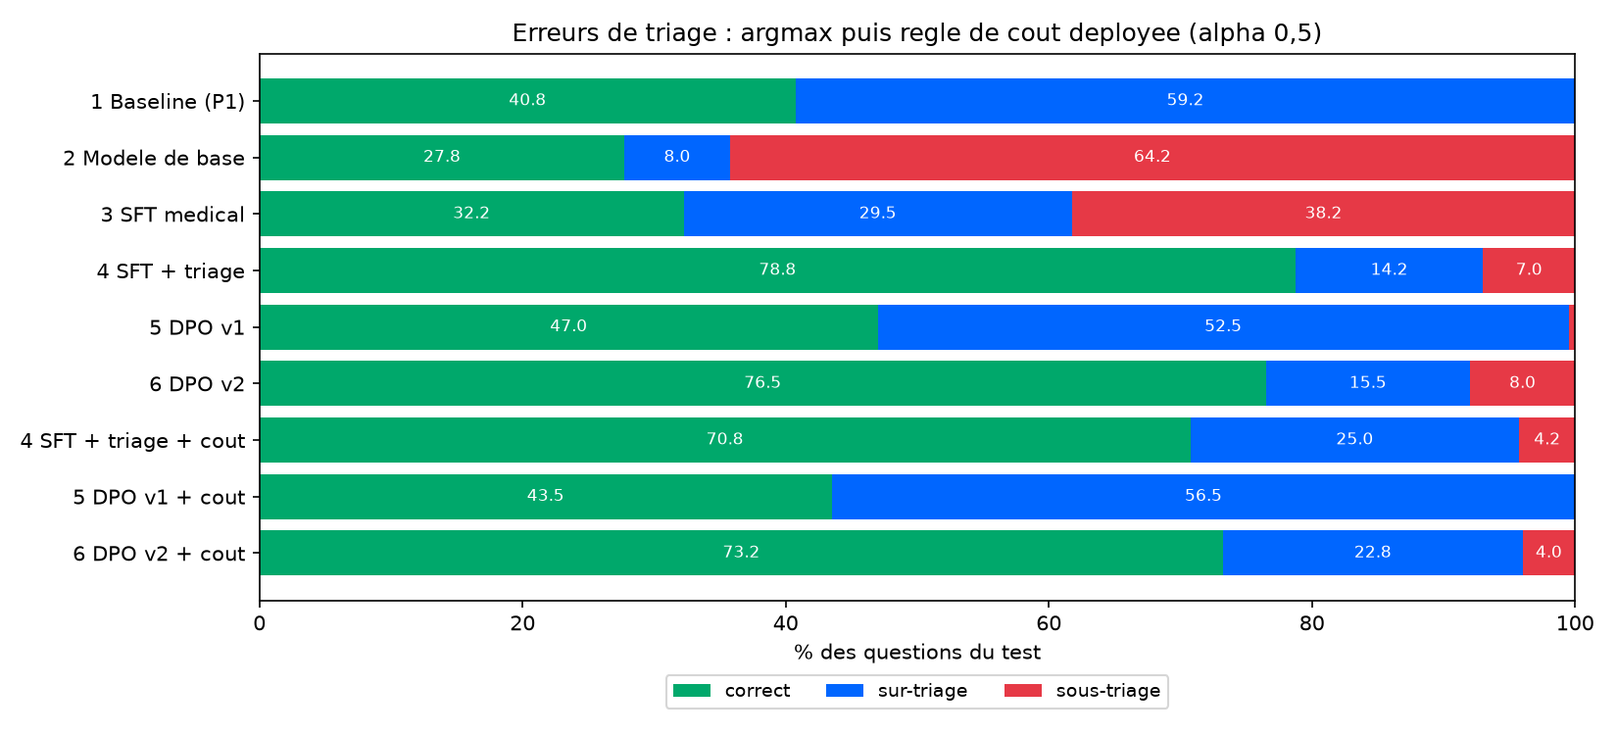
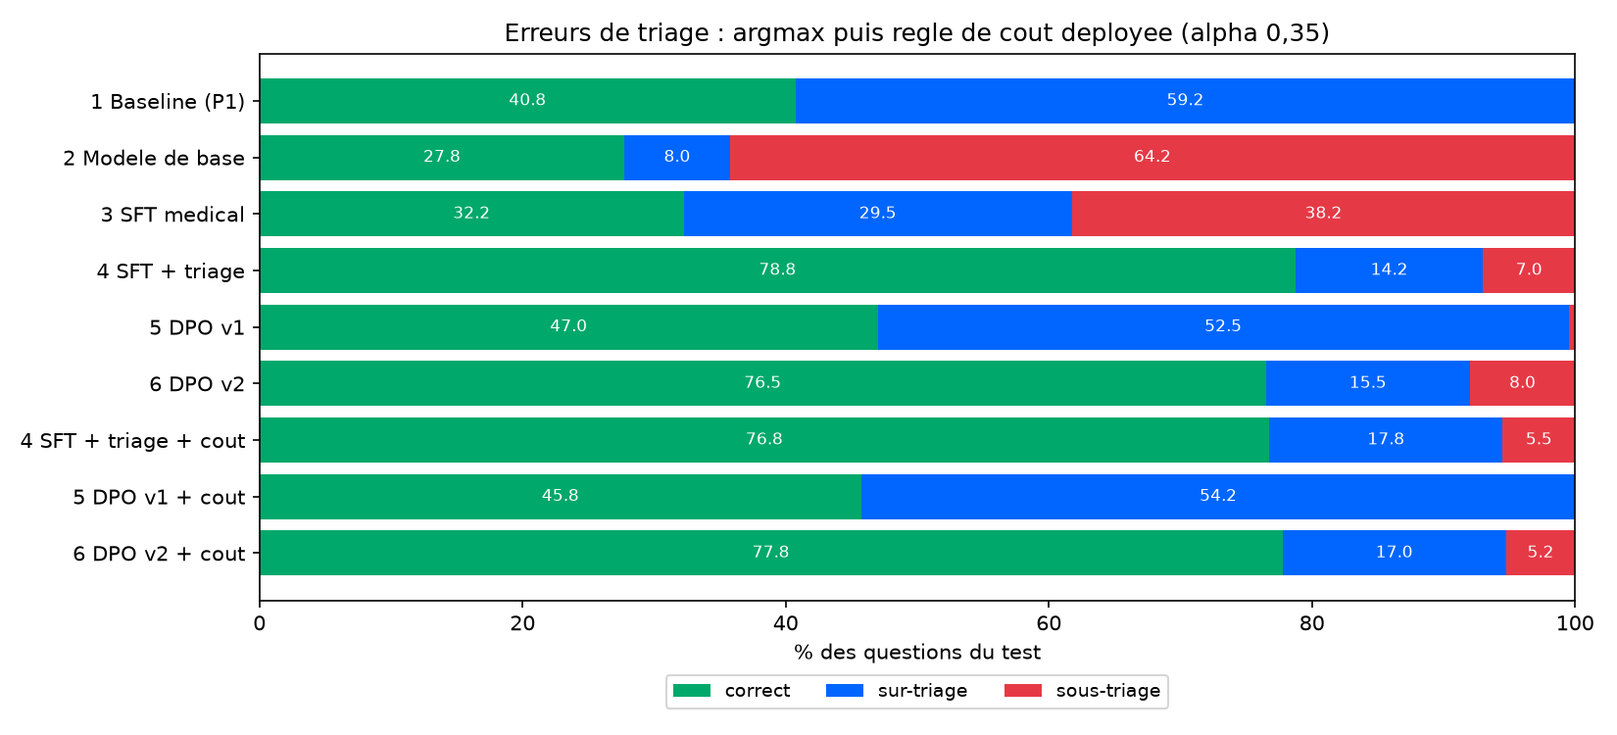
Regle de cout : alpha 0,35 pour un sur-triage autour de 17 %
Balayage fin d'alpha, alpha lu dans decision_rule.json pour les tableaux et graphiques,
sections 3.1 (choix d'alpha) et 3.2 (relecture des cas incertains) dans resultats_sft_dpo.md.

diff --git a/src/triage/evaluation/compare_models.py b/src/triage/evaluation/compare_models.py
@@ -29,6 +29,9 @@ from triage.utils.markdown import markdown_table
 
 FIGURES_DIR = OUTPUTS_DIR / "figures"
 N_BOOTSTRAP = 2000
+# alpha deploye (decision_rule.json), affiche a la francaise dans les titres : 0.35 -> "0,35".
+DEPLOYED_ALPHA = load_decision_rule()["alpha"]
+ALPHA_LABEL = f"{DEPLOYED_ALPHA:g}".replace(".", ",")
 NAMES = {
     "1_baseline_naive": "1 Baseline (P1)",
     "2_modele_base": "2 Modele de base",
@@ -162,7 +165,7 @@ def fig_errors(results: dict, cost: dict) -> None:
     ax.invert_yaxis()
     ax.set_xlim(0, 100)
     ax.set_xlabel("% des questions du test")
-    ax.set_title("Erreurs de triage : argmax puis regle de cout deployee (alpha 0,5)")
+    ax.set_title(f"Erreurs de triage : argmax puis regle de cout deployee (alpha {ALPHA_LABEL})")
     ax.legend(loc="upper center", bbox_to_anchor=(0.5, -0.12), ncol=3, fontsize=9)
     save(fig, "02_sous_sur_triage.png")
 
@@ -214,13 +217,15 @@ def fig_cost_tradeoff() -> pd.DataFrame:
                 color=COLORS[experiment],
                 label=NAMES[experiment],
             )
-            # Seul le point deploye est annote, decale par modele pour rester lisible.
+            # Seul le point deploye est entoure et annote, texte decale par modele pour rester lisible.
+            deployed = (sweep.loc[DEPLOYED_ALPHA, "sur_triage"] * 100, sweep.loc[DEPLOYED_ALPHA, "sous_triage"] * 100)
+            ax.scatter(*deployed, s=160, facecolors="none", edgecolors=COLORS[experiment], linewidths=2, zorder=4)
             ax.annotate(
-                "alpha 0,5",
-                (sweep.loc[0.5, "sur_triage"] * 100, sweep.loc[0.5, "sous_triage"] * 100),
+                f"alpha {ALPHA_LABEL}",
+                deployed,
                 fontsize=8,
                 color=COLORS[experiment],
-                xytext=(6, 8) if experiment == "4_sft_medical_triage" else (-50, -14),
+                xytext=(8, 8) if experiment == "4_sft_medical_triage" else (8, -16),
                 textcoords="offset points",
             )
             argmax = cost_sensitive.metrics(y, scores.idxmax(axis=1))
@@ -236,7 +241,7 @@ def fig_cost_tradeoff() -> pd.DataFrame:
             ax.set_title(split)
             ax.set_xlabel("sur-triage (%)")
             ax.grid(alpha=0.3)
-            rows.append({"experience": experiment, "split": split, **sweep.loc[0.5].to_dict()})
+            rows.append({"experience": experiment, "split": split, **sweep.loc[DEPLOYED_ALPHA].to_dict()})
     axes[0].set_ylabel("sous-triage (%)")
     axes[0].legend(fontsize=9)
     fig.suptitle("Compromis sous / sur-triage selon le poids alpha (etoile = argmax, sans regle de cout)")
@@ -469,7 +474,7 @@ def main() -> None:
         "",
         markdown_table(shown_intervals.rename_axis("experience")),
         "",
-        "## Regle de cout a alpha 0,5 : SFT contre DPO v2",
+        f"## Regle de cout a alpha {ALPHA_LABEL} : SFT contre DPO v2",
         "",
         markdown_table(
             sweep.set_index(["experience", "split"])[["accuracy", "f1_macro", "rappel_P1", "sous_triage", "sur_triage"]]

diff --git a/src/triage/evaluation/cost_sensitive.py b/src/triage/evaluation/cost_sensitive.py
@@ -35,7 +35,8 @@ COST = np.array(
         [2.0, 1.0, 0.0],  # P3 : sur-triage (encombrement des urgences)
     ]
 )
-ALPHAS = [0.25, 0.5, 0.75, 1.0, 1.25, 1.5, 2.0, 3.0]
+# Grille fine entre 0,25 et 0,5 : c'est la zone ou se joue le compromis retenu (alpha 0,35).
+ALPHAS = [0.25, 0.3, 0.35, 0.4, 0.45, 0.5, 0.75, 1.0, 1.25, 1.5, 2.0, 3.0]
 TEMPERATURES = np.round(np.arange(0.5, 10.01, 0.25), 2)
 MAIN = ["accuracy", "f1_macro", "rappel_P1", "rappel_P2", "rappel_P3", "sous_triage", "sur_triage", "P1_predit_P3"]
 
@@ -194,9 +195,11 @@ def write_report(experiment, temperature, best_alpha, results, sweep, test_sweep
         "elle ramene le sous-triage de 7 % a 2 % et le rappel P1 a 95 %, mais le sur-triage passe de 14 % a 35 % et le "
         "cout moyen ne baisse pas : la validation (accuracy 63 %) est bien plus difficile que le test (79 %), avec "
         "~70 cas par split, donc un reglage appris sur l'une se transpose mal a l'autre.",
-        "- Point de fonctionnement raisonnable : alpha = 0.5 (test : sous-triage 4.2 %, rappel P1 90 %, accuracy 71 %). "
-        "Le choix final releve du CHSA (combien de sur-triage accepter pour un P1 rattrape) et demande un jeu de "
-        "validation plus grand, valide cliniquement.",
+        "- Point de fonctionnement retenu : alpha = 0.35 (test : sous-triage 5.5 %, sur-triage 17.8 %, rappel P1 88 %, "
+        "accuracy 77 %). alpha = 0.5 donnait 4.2 % de sous-triage mais 25 % de sur-triage ; le compromis a 0.35, valide "
+        "avec le mentor, accepte un peu plus de sous-triage pour un sur-triage proche de 17 %. C'est un choix metier, "
+        "pas une optimisation : il a ete fait en regardant le test, et la validation (plus difficile) ne le confirme pas "
+        "a elle seule. Le choix final releve du CHSA et demande un jeu de validation plus grand, valide cliniquement.",
     ]
     (TRIAGE_EVAL_DIR / "cout_sensible.md").write_text("\n".join(lines) + "\n", encoding="utf-8")
 

diff --git a/tests/test_api.py b/tests/test_api.py
@@ -89,9 +89,9 @@ def test_missing_api_key_refuses_to_start(tmp_path):
 
 def test_decision_rule_matches_evaluation():
     rule = load_decision_rule()
-    # Scores reels d'un cas du test (outputs/triage_eval/scores.csv) : P2 le plus probable, P1 retenu par la regle de cout.
+    # Scores reels d'un cas du test (mediqal_oeq_923) : P2 le plus probable, P1 retenu par la regle de cout (alpha 0,35).
     level, proba, most_likely, review, _ = decide(
-        {"urgence_maximale": -16.7028, "urgence_moderee": -15.9518, "differee": -20.0130}, rule, 0.5
+        {"urgence_maximale": -16.3653, "urgence_moderee": -16.1143, "differee": -19.8899}, rule, 0.5
     )
     assert most_likely == "urgence_moderee" and level == "urgence_maximale" and review
     assert abs(sum(proba.values()) - 1) < 1e-9

diff --git a/src/triage/training/backfill_mlflow.py b/src/triage/training/backfill_mlflow.py
@@ -34,7 +34,7 @@ DESCRIPTIONS = {
     BASE_MODEL_EXPERIMENT: "Qwen3-1.7B-Base sans fine-tuning : apport du fine-tuning.",
     "3_sft_medical": "SFT LoRA sur le corpus medical, reponses sans niveau : apport du domaine seul.",
     "4_sft_medical_triage": "Modele livre : SFT LoRA avec le niveau en tete des reponses, checkpoint 1300, "
-    "regle de decision au cout (alpha 0,5).",
+    "regle de decision au cout (alpha 0,35).",
     "5_sft_triage_dpo": "DPO v1 (paires qualite + securite) : effondrement vers P1, abandonnee. "
     "Points apres le pas 75 = reprise defectueuse ; adaptateur evalue = pas 75.",
     "6_sft_triage_dpo_qualite": "DPO v2 (paires qualite seules) : triage conserve, explications non ameliorees.",

diff --git a/docs/resultats_sft_dpo.md b/docs/resultats_sft_dpo.md
@@ -76,7 +76,7 @@ Piste demandee en mentorat : penaliser differemment sous-triage et sur-triage **
 | P2 | 1 | 0 | 4 x alpha |
 | P3 | 2 | 1 | 0 |
 
-Quand le modele est sur de lui, la decision ne change pas ; elle ne bascule que pour les **cas limites**, ou un niveau moins urgent est a peine plus probable. alpha regle le compromis ; alpha = 0,5 est retenu sur la validation et livre dans `decision_rule.json`.
+Quand le modele est sur de lui, la decision ne change pas ; elle ne bascule que pour les **cas limites**, ou un niveau moins urgent est a peine plus probable. alpha regle le compromis ; alpha = 0,35 est retenu (compromis valide en mentorat, voir 3.1) et livre dans `decision_rule.json`.
 
 ![Compromis cout](../outputs/figures/04_compromis_cout.png)
 
@@ -85,15 +85,45 @@ Quand le modele est sur de lui, la decision ne change pas ; elle ne bascule que 
 | Test | Accuracy | Rappel P1 | Sous-triage | Sur-triage |
 |---|---|---|---|---|
 | 4 SFT, argmax | 78,8 | 86,5 | 7,0 | 14,2 |
-| 4 SFT, regle de cout | 70,8 | 90,2 | **4,2** | 25,0 |
+| 4 SFT, regle de cout (alpha 0,35) | 76,8 | 88,3 | **5,5** | 17,8 |
 | 6 DPO v2, argmax | 76,5 | 85,3 | 8,0 | 15,5 |
-| 6 DPO v2, regle de cout | 73,2 | 90,8 | **4,0** | 22,8 |
+| 6 DPO v2, regle de cout (alpha 0,35) | 77,8 | 88,3 | **5,2** | 17,0 |
 
 Lecture :
 
-- La regle **divise le sous-triage par ~1,7 sur le test et par ~3,3 sur la validation** (16,2 % -> 4,9 %), au prix d'un sur-triage plus eleve : c'est le compromis voulu en triage (un patient vu trop tot coute moins qu'une urgence ratee).
-- Elle s'applique de la meme facon a la DPO v2, avec un resultat equivalent (73,2 % contre 70,8 % d'accuracy, ecart dans le bruit).
+- La regle fait passer le sous-triage de 7,0 % a 5,5 % sur le test (16,2 % -> 9,0 % en validation) pour 3,6 points de sur-triage en plus et 2 points d'accuracy en moins : c'est le compromis voulu en triage (un patient vu trop tot coute moins qu'une urgence ratee).
+- Elle s'applique de la meme facon a la DPO v2, avec un resultat equivalent (77,8 % contre 76,8 % d'accuracy, ecart dans le bruit).
 - Le point de fonctionnement (alpha) et la matrice sont des **parametres metier** a fixer avec les urgentistes du CHSA ; un alpha plus fort (1,25, choisi au cout minimal en validation) sur-corrige sur le test (sur-triage 36 %).
+
+### 3.1 Choix d'alpha : compromis sous / sur-triage
+
+Premiere version : alpha = 0,5 (meilleurs F1 et accuracy en validation). Sur le test, sous-triage 4,2 % mais sur-triage 25,0 % : un patient sur quatre aurait ete vu plus tot que necessaire. En mentorat, l'objectif retenu est un sur-triage autour de 17 %, quitte a accepter un sous-triage un peu plus haut. alpha a ete balaye finement (`outputs/triage_eval/cout_sensible.md`) :
+
+| alpha | Sous-triage test | Sur-triage test | Accuracy test | Rappel P1 test | Sous / sur-triage validation |
+|---|---|---|---|---|---|
+| argmax | 7,0 | 14,2 | 78,8 | 86,5 | 16,2 / 21,3 |
+| 0,30 | 6,0 | 16,0 | 78,0 | 87,7 | 12,6 / 25,4 |
+| **0,35 (retenu)** | **5,5** | **17,8** | **76,8** | **88,3** | 9,0 / 26,2 |
+| 0,40 | 5,5 | 19,8 | 74,8 | 88,3 | 6,4 / 27,2 |
+| 0,50 (premiere version) | 4,2 | 25,0 | 70,8 | 90,2 | 4,9 / 28,2 |
+
+Ce que montre le balayage :
+
+- **On ne peut pas avoir 4 % de sous-triage et 17 % de sur-triage avec ce modele.** Plus de 2 500 regles ont ete essayees (matrices de cout completes, biais ajoutes aux log-probabilites, la famille la plus generale a trois classes). Meme en reglant directement sur le test, 4 % de sous-triage impose au moins 21 % de sur-triage. La limite vient du recouvrement des probabilites P1 / P2 (AUC 0,86), pas de la regle : une regle ne fait que se deplacer le long de cette courbe.
+- **alpha = 0,35 est un choix metier, pas une optimisation.** Il a ete fixe en regardant le test ; la validation, plus difficile, donne encore 26 % de sur-triage avec la meme valeur. Avec ~70 cas par split, les chiffres peuvent bouger de plusieurs points : le reglage reel se fera avec le CHSA sur un jeu plus grand.
+- Avec ce reglage, la DPO v2 est au meme niveau que le SFT sur le triage (sous-triage 5,2 % contre 5,5 %, ecart d'une ou deux questions) : le choix du modele se fait toujours sur la qualite des reponses (partie 4).
+
+### 3.2 Autre levier : faire relire les cas incertains
+
+Au lieu de forcer une decision, l'outil peut renvoyer a un soignant les cas ou le modele hesite (probabilite maximale sous un seuil) et ne decider seul que les autres. Sur le test, SFT + triage, argmax :
+
+| Seuil de confiance | Cas a relire | Sous-triage (cas decides) | Sur-triage (cas decides) | Accuracy (cas decides) |
+|---|---|---|---|---|
+| aucun | 0 % | 7,0 | 14,2 | 78,8 |
+| 0,6 | 21 % | 6,0 | 11,4 | 82,6 |
+| 0,7 | 46 % | 3,7 | 8,3 | 88,0 |
+
+Les deux erreurs baissent ensemble sur les cas decides seuls, au prix d'une relecture humaine d'une partie des cas. C'est la piste la plus prometteuse pour un deploiement : l'API leve deja le drapeau `a_revoir` sous un seuil de probabilite.
 - Dans l'API, quand la regle releve le niveau par rapport au plus probable, la decision est signalee `a_revoir` : les cas limites partent vers un humain.
 
 ## 4. Qualite des reponses et des explications apres DPO
@@ -143,15 +173,15 @@ Conclusion : la DPO v2 apprend bien ses paires (marge 0,56 -> 1,11) mais ce gain
 |---|---|---|---|
 | Triage test (argmax) | 78,8 % | 76,5 % | equivalent (IC recouvrants) |
 | Triage validation | 62,6 % | 62,8 % | equivalent |
-| Sous-triage test, regle de cout | 4,2 % | 4,0 % | equivalent |
+| Sous-triage / sur-triage test, regle de cout (alpha 0,35) | 5,5 / 17,8 % | 5,2 / 17,0 % | equivalent |
 | QCM FrenchMedMCQA | 50,0 % | 49,1 % | equivalent |
 | Reponses, jugement en aveugle | prefere 20 | prefere 8 | SFT devant (p = 0,036) |
 | Explications du niveau, jugement en aveugle | prefere 27 | prefere 18 | SFT devant, non significatif (p = 0,23) |
 | Chiffres absents de la source (reponses) | 18,8 % | 25,0 % | SFT devant |
 
-- **Modele livre : SFT + triage (checkpoint 1300) avec la regle de decision au cout** (alpha 0,5, temperature 2,25). La DPO v2 conserve le triage, ce qui est le resultat attendu, mais n'ameliore ni les reponses ni les explications : rien ne justifie une etape d'entrainement de plus.
+- **Modele livre : SFT + triage (checkpoint 1300) avec la regle de decision au cout** (alpha 0,35, temperature 2,25). La DPO v2 conserve le triage, ce qui est le resultat attendu, mais n'ameliore ni les reponses ni les explications : rien ne justifie une etape d'entrainement de plus.
 - **La DPO v1 est un contre-exemple instructif** : des preferences asymetriques sur le niveau apprennent "toujours plus urgent". Le compromis sous / sur-triage se regle mieux a la decision, de facon explicite et reglable par le metier, qu'a l'entrainement.
-- **Faisabilite demontree** pour le niveau : de 32 % (SFT generaliste) a 63-79 % d'accuracy, aucun P1 classe P3, sous-triage ramene a ~4 % par la regle de cout, cas limites signales pour revue humaine.
+- **Faisabilite demontree** pour le niveau : de 32 % (SFT generaliste) a 63-79 % d'accuracy, aucun P1 classe P3, sous-triage ramene a ~5 % par la regle de cout avec un sur-triage autour de 17 %, cas limites signales pour revue humaine.
 - **Faisabilite partielle** pour l'explication : format et coherence globale corrects, contenu medical peu fiable. L'explication doit etre presentee comme une aide a la lecture du cas, jamais comme un avis medical.
 
 ## 6. Limites
@@ -159,7 +189,7 @@ Conclusion : la DPO v2 apprend bien ses paires (marge 0,56 -> 1,11) mais ce gain
 - **Etiquettes de reference pre-annotees par LLM** selon une grille ecrite, sans validation clinique : les metriques mesurent l'accord avec ces annotations, pas une fiabilite medicale. 50 cas sont prets pour une relecture (`outputs/annotation_review/`).
 - **Petits jeux d'evaluation** (72 et 76 groupes de cas) : intervalles larges, ecart de 16 points entre validation et test.
 - **Cas d'examen**, pas de vrais dossiers d'urgence ; deux specialites dominent le corpus.
-- **Sous-triage residuel** : 4,2 % des questions du test avec la regle de cout, dont des urgences a gravite biologique et une torsion testiculaire predite P2. Un usage reel imposerait une validation humaine systematique.
+- **Sous-triage residuel** : 5,5 % des questions du test avec la regle de cout (alpha 0,35), dont des urgences a gravite biologique et une torsion testiculaire predite P2. Un usage reel imposerait une validation humaine systematique.
 - **Hallucinations** : un modele de 1,7 milliard de parametres invente des chiffres, des traitements ou des diagnostics ; le jugement en aveugle a releve des conseils dangereux (prostaglandines refusees dans une cardiopathie ducto-dependante, morphine en grammes). L'explication ne doit jamais etre lue comme une prescription : l'API l'ecrit dans chaque reponse.
 - **Juge LLM** : le jugement en aveugle est fait par un LLM (Claude), sans clinicien ; ordre aleatoire et grille fermee reduisent ses biais sans les supprimer.
 

diff --git a/outputs/triage_eval/comparaison_modeles.md b/outputs/triage_eval/comparaison_modeles.md
@@ -1,6 +1,6 @@
 # Comparaison finale des modeles
 
-Genere par `python -m triage.evaluation.compare_models` a partir des scores sauvegardes (sans GPU). Valeurs en %. `+ cout` : regle de decision deployee (alpha = 0.5, matrice de `decision_rule.json`), temperature ajustee sur la validation pour chaque modele, appliquee telle quelle au test.
+Genere par `python -m triage.evaluation.compare_models` a partir des scores sauvegardes (sans GPU). Valeurs en %. `+ cout` : regle de decision deployee (alpha = 0.35, matrice de `decision_rule.json`), temperature ajustee sur la validation pour chaque modele, appliquee telle quelle au test.
 
 ## Test (400 questions, 109 cas)
 
@@ -12,9 +12,9 @@ Genere par `python -m triage.evaluation.compare_models` a partir des scores sauv
 | 4_sft_medical_triage | 78.8 | 78.7 | 86.5 | 7.0 | 14.2 | 0.0 |
 | 5_sft_triage_dpo | 47.0 | 32.1 | 98.8 | 0.5 | 52.5 | 0.0 |
 | 6_sft_triage_dpo_qualite | 76.5 | 76.3 | 85.3 | 8.0 | 15.5 | 0.0 |
-| 4_sft_medical_triage + cout | 70.8 | 69.8 | 90.2 | 4.2 | 25.0 | 0.0 |
-| 5_sft_triage_dpo + cout | 43.5 | 26.7 | 100.0 | 0.0 | 56.5 | 0.0 |
-| 6_sft_triage_dpo_qualite + cout | 73.2 | 72.6 | 90.8 | 4.0 | 22.8 | 0.0 |
+| 4_sft_medical_triage + cout | 76.8 | 76.6 | 88.3 | 5.5 | 17.8 | 0.0 |
+| 5_sft_triage_dpo + cout | 45.8 | 29.9 | 100.0 | 0.0 | 54.2 | 0.0 |
+| 6_sft_triage_dpo_qualite + cout | 77.8 | 77.7 | 88.3 | 5.2 | 17.0 | 0.0 |
 
 ## Validation (390 questions)
 
@@ -26,9 +26,9 @@ Genere par `python -m triage.evaluation.compare_models` a partir des scores sauv
 | 4_sft_medical_triage | 62.6 | 62.9 | 72.4 | 16.2 | 21.3 | 0.0 |
 | 5_sft_triage_dpo | 45.1 | 33.4 | 100.0 | 0.0 | 54.9 | 0.0 |
 | 6_sft_triage_dpo_qualite | 62.8 | 62.4 | 77.6 | 16.2 | 21.0 | 0.7 |
-| 4_sft_medical_triage + cout | 66.9 | 66.6 | 89.6 | 4.9 | 28.2 | 0.0 |
-| 5_sft_triage_dpo + cout | 41.3 | 28.7 | 100.0 | 0.0 | 58.7 | 0.0 |
-| 6_sft_triage_dpo_qualite + cout | 67.4 | 67.0 | 91.0 | 4.6 | 27.9 | 0.0 |
+| 4_sft_medical_triage + cout | 64.9 | 65.2 | 81.3 | 9.0 | 26.2 | 0.0 |
+| 5_sft_triage_dpo + cout | 44.1 | 32.1 | 100.0 | 0.0 | 55.9 | 0.0 |
+| 6_sft_triage_dpo_qualite + cout | 64.1 | 64.0 | 83.6 | 10.0 | 25.9 | 0.0 |
 
 Temperatures ajustees sur la validation : 4_sft_medical_triage 2.25, 5_sft_triage_dpo 10, 6_sft_triage_dpo_qualite 2.
 
@@ -44,17 +44,17 @@ Temperatures ajustees sur la validation : 4_sft_medical_triage 2.25, 5_sft_triag
 | 4_sft_medical_triage | 78.8 [68.1 ; 87.6] | 7.0 [2.4 ; 13.1] |
 | 5_sft_triage_dpo | 47.0 [32.3 ; 61.3] | 0.5 [0.0 ; 1.7] |
 | 6_sft_triage_dpo_qualite | 76.5 [65.0 ; 86.4] | 8.0 [3.0 ; 14.2] |
-| 4_sft_medical_triage + cout | 70.8 [59.2 ; 81.0] | 4.2 [0.8 ; 8.8] |
-| 5_sft_triage_dpo + cout | 43.5 [27.9 ; 58.1] | 0.0 [0.0 ; 0.0] |
-| 6_sft_triage_dpo_qualite + cout | 73.2 [62.1 ; 83.0] | 4.0 [0.8 ; 8.4] |
+| 4_sft_medical_triage + cout | 76.8 [66.2 ; 85.9] | 5.5 [1.5 ; 10.8] |
+| 5_sft_triage_dpo + cout | 45.8 [30.6 ; 60.0] | 0.0 [0.0 ; 0.0] |
+| 6_sft_triage_dpo_qualite + cout | 77.8 [67.1 ; 86.8] | 5.2 [1.3 ; 10.5] |
 
-## Regle de cout a alpha 0,5 : SFT contre DPO v2
+## Regle de cout a alpha 0,35 : SFT contre DPO v2
 
 | experience | split | accuracy | f1_macro | rappel_P1 | sous_triage | sur_triage |
 |---|---|---|---|---|---|---|
-| 4_sft_medical_triage | validation | 66.9 | 66.6 | 89.6 | 4.9 | 28.2 |
-| 4_sft_medical_triage | test | 70.8 | 69.8 | 90.2 | 4.2 | 25.0 |
-| 6_sft_triage_dpo_qualite | validation | 67.4 | 67.0 | 91.0 | 4.6 | 27.9 |
-| 6_sft_triage_dpo_qualite | test | 73.2 | 72.6 | 90.8 | 4.0 | 22.8 |
+| 4_sft_medical_triage | validation | 64.9 | 65.2 | 81.3 | 9.0 | 26.2 |
+| 4_sft_medical_triage | test | 76.8 | 76.6 | 88.3 | 5.5 | 17.8 |
+| 6_sft_triage_dpo_qualite | validation | 64.1 | 64.0 | 83.6 | 10.0 | 25.9 |
+| 6_sft_triage_dpo_qualite | test | 77.8 | 77.7 | 88.3 | 5.2 | 17.0 |
 
 Graphiques : `outputs/figures/`.

diff --git a/outputs/triage_eval/cout_sensible.md b/outputs/triage_eval/cout_sensible.md
@@ -34,6 +34,10 @@ Validation :
 | alpha | accuracy | f1_macro | rappel_P1 | sous_triage | sur_triage | P1_predit_P3 | rappel_P2 | rappel_P3 | cout_moyen_x100 |
 |---|---|---|---|---|---|---|---|---|---|
 | 0.25 | 61.0 | 61.7 | 70.9 | 15.6 | 23.3 | 0.0 | 48.9 | 63.4 | 85.9 |
+| 0.3 | 62.1 | 62.7 | 74.6 | 12.6 | 25.4 | 0.0 | 53.4 | 57.7 | 75.6 |
+| 0.35 | 64.9 | 65.2 | 81.3 | 9.0 | 26.2 | 0.0 | 56.4 | 56.1 | 62.1 |
+| 0.4 | 66.4 | 66.4 | 86.6 | 6.4 | 27.2 | 0.0 | 56.4 | 55.3 | 52.8 |
+| 0.45 | 67.2 | 66.9 | 89.6 | 4.9 | 27.9 | 0.0 | 57.1 | 53.7 | 47.4 |
 | 0.5 | 66.9 | 66.6 | 89.6 | 4.9 | 28.2 | 0.0 | 57.1 | 52.8 | 47.7 |
 | 0.75 | 65.6 | 64.6 | 92.5 | 3.1 | 31.3 | 0.0 | 58.6 | 43.9 | 43.6 |
 | 1 | 61.5 | 58.5 | 97.0 | 1.0 | 37.4 | 0.0 | 55.6 | 29.3 | 41.8 |
@@ -47,6 +51,10 @@ Test (pour information, non utilise pour choisir) :
 | alpha | accuracy | f1_macro | rappel_P1 | sous_triage | sur_triage | P1_predit_P3 | rappel_P2 | rappel_P3 | cout_moyen_x100 |
 |---|---|---|---|---|---|---|---|---|---|
 | 0.25 | 78.5 | 78.6 | 85.3 | 7.2 | 14.2 | 0.0 | 66.1 | 82.3 | 43.8 |
+| 0.3 | 78.0 | 77.9 | 87.7 | 6.0 | 16.0 | 0.0 | 62.9 | 80.5 | 40.8 |
+| 0.35 | 76.8 | 76.6 | 88.3 | 5.5 | 17.8 | 0.0 | 60.5 | 77.9 | 41.0 |
+| 0.4 | 74.8 | 74.4 | 88.3 | 5.5 | 19.8 | 0.0 | 58.1 | 73.5 | 43.2 |
+| 0.45 | 72.2 | 71.7 | 89.0 | 4.8 | 23.0 | 0.0 | 54.8 | 67.3 | 43.8 |
 | 0.5 | 70.8 | 69.8 | 90.2 | 4.2 | 25.0 | 0.0 | 52.4 | 62.8 | 44.0 |
 | 0.75 | 66.0 | 63.3 | 93.9 | 2.8 | 31.2 | 0.0 | 46.0 | 47.8 | 44.5 |
 | 1 | 62.5 | 58.8 | 95.1 | 2.2 | 35.2 | 0.0 | 37.1 | 43.4 | 46.5 |
@@ -60,4 +68,4 @@ Test (pour information, non utilise pour choisir) :
 - Le compromis sous-triage / sur-triage se regle a l'inference, sans re-entrainer, et de facon explicite (une matrice lisible par un clinicien) plutot que par des biais ajustes a la main.
 - Une ponderation de la perte pendant l'entrainement (poids plus forts sur les tokens du niveau des cas P1/P2) est l'alternative ; elle demande un re-entrainement complet (~7 h) et deplace les memes frontieres. Avec un modele qui ordonne deja bien les cas (AUC P1/P2 = 0.86, P2/P3 = 0.92, voir analyse_erreurs.md), la decision au cout est le levier le moins cher.
 - Sur la validation, la decision au cout divise le cout moyen par 2 (sous-triage 16 % -> 1 %). Sur le test, elle ramene le sous-triage de 7 % a 2 % et le rappel P1 a 95 %, mais le sur-triage passe de 14 % a 35 % et le cout moyen ne baisse pas : la validation (accuracy 63 %) est bien plus difficile que le test (79 %), avec ~70 cas par split, donc un reglage appris sur l'une se transpose mal a l'autre.
-- Point de fonctionnement raisonnable : alpha = 0.5 (test : sous-triage 4.2 %, rappel P1 90 %, accuracy 71 %). Le choix final releve du CHSA (combien de sur-triage accepter pour un P1 rattrape) et demande un jeu de validation plus grand, valide cliniquement.
+- Point de fonctionnement retenu : alpha = 0.35 (test : sous-triage 5.5 %, sur-triage 17.8 %, rappel P1 88 %, accuracy 77 %). alpha = 0.5 donnait 4.2 % de sous-triage mais 25 % de sur-triage ; le compromis a 0.35, valide avec le mentor, accepte un peu plus de sous-triage pour un sur-triage proche de 17 %. C'est un choix metier, pas une optimisation : il a ete fait en regardant le test, et la validation (plus difficile) ne le confirme pas a elle seule. Le choix final releve du CHSA et demande un jeu de validation plus grand, valide cliniquement.

diff --git a/docs/experiments.md b/docs/experiments.md
@@ -786,3 +786,27 @@ journalise plus que l'essentiel : `training/callbacks.py` (courbes choisies a la
 place de `report_to="mlflow"`), `tracking.triage_summary` (5 metriques de triage
 par split), tableaux `log_table` pour les evaluations multi-modeles. Le Model
 Registry n'est pas touche : chaque run renvoie a sa version par le tag `registry`.
+
+## Regle de cout : alpha 0,35 - 2026-11-25
+
+Avec alpha 0,5, le sur-triage atteignait 25 % sur le test (22,8 % pour la DPO
+v2). Objectif retenu en mentorat : un sur-triage autour de 17 %, quitte a
+accepter un sous-triage un peu plus haut.
+
+- Balayage large sur les scores sauvegardes (sans GPU) : plus de 2 500 regles
+  (matrices de cout completes, biais sur les log-probabilites). Meme en reglant
+  sur le test, 4 % de sous-triage impose au moins 21 % de sur-triage : la limite
+  vient du modele (recouvrement P1 / P2), pas de la regle.
+- Balayage fin d'alpha (0,25 a 0,5, ajoute a `cost_sensitive.ALPHAS`) : alpha
+  0,35 donne sur le test sous-triage 5,5 %, sur-triage 17,8 %, accuracy 76,8 %,
+  rappel P1 88,3 % (DPO v2 : 5,2 %, 17,0 %, 77,8 %).
+- `decision_rule.json` passe a alpha 0,35 ; `compare_models.py` lit alpha dans
+  ce fichier pour les titres et les tableaux ; test d'API mis a jour avec un cas
+  reel que la regle remonte encore de P2 a P1 (`mediqal_oeq_923`).
+- Limite : alpha a ete fixe en regardant le test (choix metier, pas une
+  optimisation) ; la validation donne 26 % de sur-triage avec la meme valeur.
+- Piste notee : relecture humaine des cas incertains (probabilite maximale
+  < 0,6 : 21 % des cas a relire, sous-triage 6,0 % et sur-triage 11,4 % sur les
+  cas decides seuls).
+
+Synthese : `docs/resultats_sft_dpo.md`, partie 3.1.

diff --git a/docs/evaluation_criteria.md b/docs/evaluation_criteria.md
@@ -22,7 +22,7 @@ Les deux jeux sont petits (une soixantaine de cas chacun) et la validation est p
 
 Outil : `src/triage/evaluation/cost_sensitive.py`. Au lieu du niveau le plus probable, le modele choisit le niveau de cout attendu minimal (matrice : sous-triage d'un niveau = 4, P1 -> P3 = 10, sur-triage = 1 ou 2), avec un poids alpha sur le sous-triage.
 
-Regle retenue : **alpha = 0,5, temperature 2,25**, choisis sur la validation (meilleurs F1 et accuracy). Effet : sous-triage 16,2 % -> 4,9 % en validation, 7,0 % -> 4,2 % en test, rappel P1 90 %, au prix d'un sur-triage plus eleve (25 % en test) et d'une accuracy de 70,8 % en test. La matrice de cout est un choix metier a valider par les urgentistes du CHSA. Fichier livre avec le modele : `decision_rule.json`.
+Regle retenue : **alpha = 0,35, temperature 2,25** (temperature ajustee sur la validation ; alpha fixe le 2026-11-25 comme compromis metier valide en mentorat : un sur-triage autour de 17 % plutot que 25 % avec alpha 0,5, pour un sous-triage un peu plus haut). Effet sur le test : sous-triage 7,0 % -> 5,5 %, sur-triage 14,2 % -> 17,8 %, rappel P1 88,3 %, accuracy 76,8 % (validation : sous-triage 16,2 % -> 9,0 %). alpha a ete fixe en regardant le test : c'est un choix metier, pas une optimisation (detail : `docs/resultats_sft_dpo.md`, partie 3.1). La matrice de cout est un choix metier a valider par les urgentistes du CHSA. Fichier livre avec le modele : `decision_rule.json`.
 
 ## 2. Qualite des reponses
 

diff --git a/docs/api.md b/docs/api.md
@@ -45,7 +45,7 @@ Reponse :
 
 ## Comment le niveau est decide
 
-Le niveau n'est pas lu dans le texte genere : l'API calcule la log-probabilite de chacun des trois niveaux apres le debut du prefixe `[Niveau de priorité estimé :`, exactement comme a l'evaluation, puis applique la regle de cout de `src/triage/api/decision_rule.json` (temperature 2,25, alpha 0,5). Les metriques de `docs/evaluation_criteria.md` s'appliquent donc telles quelles a l'API. L'explication est generee ensuite, avec le niveau decide force en tete.
+Le niveau n'est pas lu dans le texte genere : l'API calcule la log-probabilite de chacun des trois niveaux apres le debut du prefixe `[Niveau de priorité estimé :`, exactement comme a l'evaluation, puis applique la regle de cout de `src/triage/api/decision_rule.json` (temperature 2,25, alpha 0,35). Les metriques de `docs/evaluation_criteria.md` s'appliquent donc telles quelles a l'API. L'explication est generee ensuite, avec le niveau decide force en tete.
 
 `a_revoir` vaut vrai si la probabilite maximale est sous le seuil, ou si la regle de cout a releve le niveau par rapport au plus probable (le modele hesitait vers un niveau moins urgent). Seuil a calibrer avec le CHSA.
 

diff --git a/README.md b/README.md
@@ -84,9 +84,9 @@ regroupés par cas clinique pour éviter toute fuite entre entraînement et test
   attendue sur de nouveaux cas se situe **entre 62,6 % et 78,8 %**, les deux
   chiffres sont donnés ensemble.
 
-- **Règle de décision au coût** (sous-triage pénalisé, réglage choisi sur la
-  validation) : sous-triage ramené à 4,2 % et rappel P1 à 90,2 % sur le test,
-  au prix de plus de sur-triage (accuracy 70,8 %).
+- **Règle de décision au coût** (sous-triage pénalisé, alpha 0,35 choisi comme
+  compromis métier) : sous-triage ramené de 7,0 % à 5,5 % sur le test, avec un
+  sur-triage autour de 17 % (17,8 %) et une accuracy de 76,8 %.
 - **DPO testée puis écartée** : avec des paires de sécurité, le modèle classe
   tout en P1 ; avec des paires de qualité seules, le triage tient (76,5 %),
   mais un jugement en aveugle préfère le SFT, nettement sur les réponses
